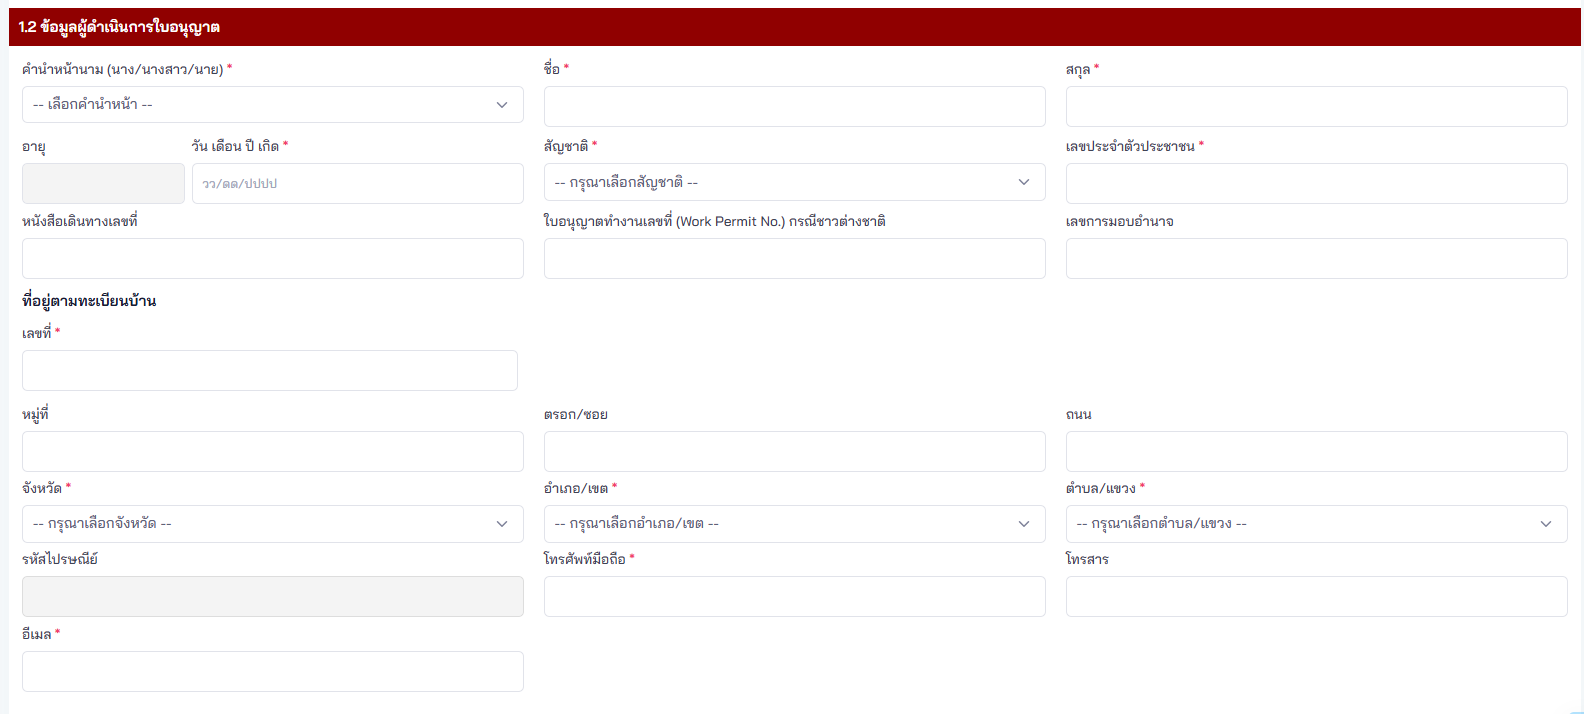
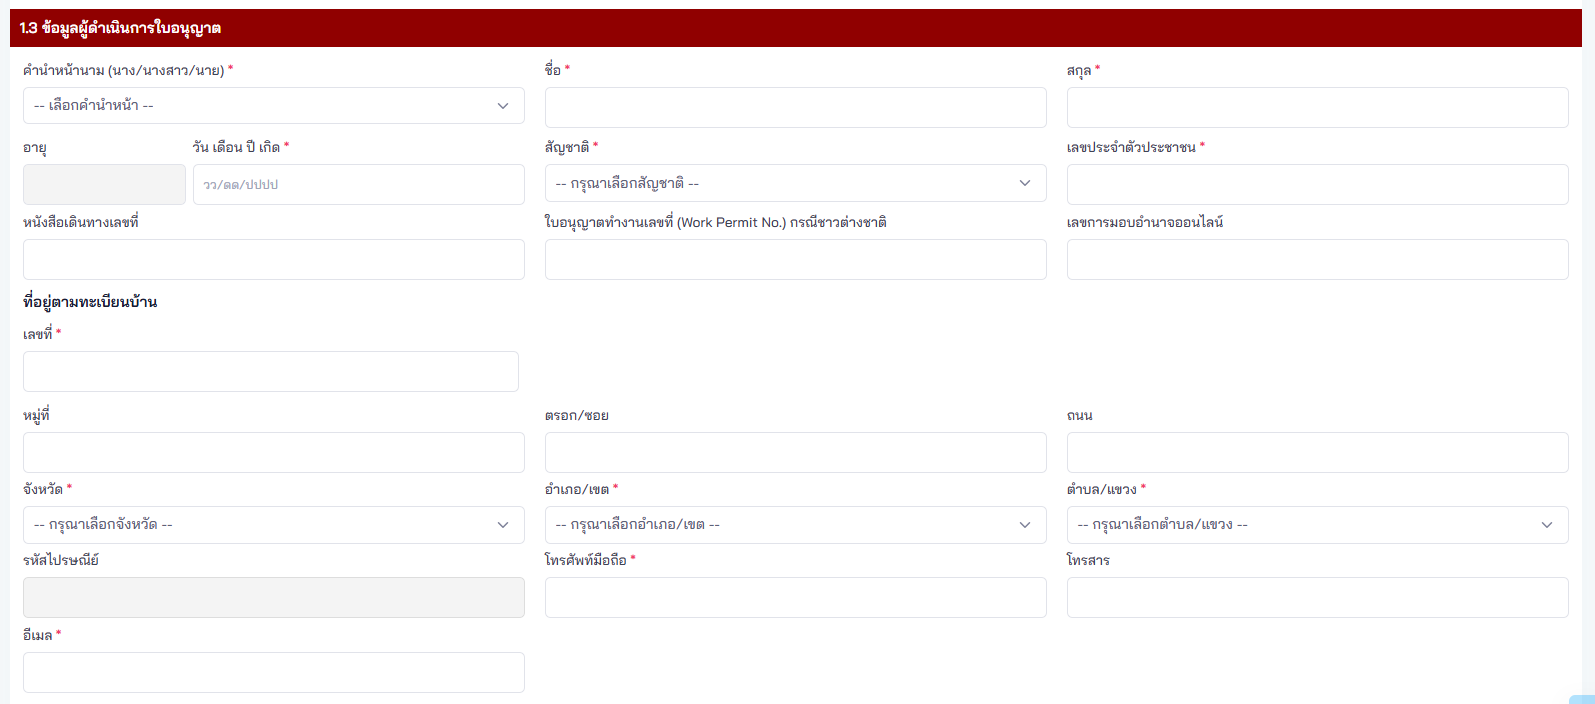
nc1 nc5

diff --git a/Narcotic1_Condition.md b/Narcotic1_Condition.md
@@ -76,12 +76,40 @@ li {
 <img src="Narcotic1_Condition_2.png" style="border: 1px solid black;" width="100%">
 
 ## 🔷 Field Condition (ยส.1-1)
+
+### การดำเนินการ + วัตถุประสงค์ในการขออนุญาต + ประเภทผู้ขออนุญาต
+
+<img src="Narcotic1_Field Condition_13_1.png" style="border: 1px solid black;" width="70%">
+<img src="Narcotic1_Field Condition_13.png" style="border: 1px solid black;" width="100%">
+
+| ลำดับ | Label | Table.Field | Condition | Remark |
+|:---:|---|---|---|---|
+| 1 | การดำเนินการ | `Requisition`.`OperationTypeId` | การดำเนินการ อ้างอิง `MasterOperationType`.`Id` |  |
+
+<img src="Narcotic1_Field Condition_14_1.png" style="border: 1px solid black;" width="70%">
+<img src="Narcotic1_Field Condition_14.png" style="border: 1px solid black;" width="100%">
+
+| ลำดับ | Label | Table.Field | Condition | Remark |
+|:---:|---|---|---|---|
+| 1 | วัตถุประสงค์ในการขออนุญาต | `Requisition`.`ObjectiveTypeId` |  |  |
+
+<img src="Narcotic1_Field Condition_15_1.png" style="border: 1px solid black;" width="70%">
+<img src="Narcotic1_Field Condition_15.png" style="border: 1px solid black;" width="100%">
+
+| ลำดับ | Label | Table.Field | Condition | Remark |
+|:---:|---|---|---|---|
+| x | - | `RequisitionObjectiveApplicantDetail`.`RequisitionId` |  |  |
+| 1 | เลขที่ใบอนุญาตจัดตั้งสถาบันอุดมศึกษาเอกชน | `RequisitionObjectiveApplicantDetail`.`ApplicantPrivateUniversityLicenseNumber` | กรณีเลือกวัตถุประสงค์ เป็น `สถาบันอุดมศึกษาเอกชน ตามกฎหมายว่าด้วยสถาบันอุดมศึกษาเอกชน` |  |
+| 2.1 | ระบุประเภทใบอนุญาต | `RequisitionObjectiveApplicantDetail`.`ApplicantLicenseTypeId` | กรณีเลือกวัตถุประสงค์ เป็น `ผู้รับอนุญาตตามประมวลกฎหมายยาเสพติด/ตามกฎหมายว่าด้วยยา` |  |
+| 2.2 | เลขที่ใบอนุญาต | `RequisitionObjectiveApplicantDetail`.`ApplicantLicenseNumber` | กรณีเลือกวัตถุประสงค์ เป็น `ผู้รับอนุญาตตามประมวลกฎหมายยาเสพติด/ตามกฎหมายว่าด้วยยา` |  |
+
 ### 1.1 ข้อมูลผู้ขออนุญาต (ยส.1-1)
 
 <img src="Narcotic1_Field Condition_2.png" style="border: 1px solid black;" width="100%">
 
 > 24 มี.ค. 2569
 > 1. เปิดทุก field เป็น enable แต่ยังให้ดึงข้อมูลจาก DOPA มา fill
+> (รหัสไปรษณีย์ ให้ disable แต่ให้ดึงตามตำบล/แขวง)
 > 2. ย้าย จังหวัด ไปต่อกับ ถนน
 > 3. ย้าย Email ไปต่อกับ โทรสาร  
 > 4. โทรศัพท์มือถือ ปรับให้เป็น free text
@@ -111,13 +139,29 @@ li {
 
 ### 1.2 ข้อมูลผู้ดำเนินการใบอนุญาต (ยส.1-1)
 
+<img src="Narcotic1_Field Condition_17.png" style="border: 1px solid black;" width="70%">
+<img src="Narcotic1_Field Condition_18.png" style="border: 1px solid black;" width="100%">
+
+<ul>
+  <li>1. ทำเป็น Radio เลือกได้ 1 ประเภทใบอนุญาต</li>
+  <li>2. ใช้ API GetLicense (api/License/Narcotic/Search) ค้นหาใบอนุญาตของตัวเอง</li>
+</ul>
+
+| ลำดับ | Label | Table.Field | Condition | Remark |
+|:---:|---|---|---|---|
+| 1 | ไอดี ของ ใบอนุญาต | `Requisition`.`LicenseRefId` | ใบอนุญาตที่อ้างอิง อ้างอิง `License`.`Id` | |
+| 2 | ใบอนุญาตเลขที่ | `Requisition`.`LicenseRefNo` | เลขที่ใบอนุญาตที่อ้างอิง | |
+| 3 | ประเภทใบอนุญาต | `Requisition`.`LicenseRefType` | ประเภทใบอนุญาตที่อ้างอิง อ้างอิง `MasterLicenseType`.`Id`  | |
+
+### 1.3 ข้อมูลผู้ดำเนินการใบอนุญาต (ยส.1-1)
+
 <img src="Narcotic1_Field Condition_3.png" style="border: 1px solid black;" width="100%">
 
 *** (ยส.1-1) ไม่เก็บ Work permit no. ***
 
 > 24 มี.ค. 2569
 > 1. ซ่อน Work permit no.
-> 2. `เลขการมอบอำนาจ` เปลี่ยนเป็น `เลขการมอบอำนาจออนไลน์`
+> 2. `เลขการมอบอำนาจ` เปลี่ยนเป็น `เลขการมอบอำนาจออนไลน์` (แก้แล้ว)
 > 3. เลขรหัสประจำบ้าน ไม่แสดง ให้แสดงต่อจาก เลขที่
 
 | ลำดับ | Label | Table.Field | Condition | Remark |
@@ -153,7 +197,7 @@ li {
 
 <img src="Narcotic1_Field Condition_4.png" style="border: 1px solid black;" width="100%">
 <img src="Narcotic1_Field Condition_4_1.png" style="border: 1px solid black;" width="100%">
-<img src="Narcotic1_Field Condition_12.png" style="border: 1px solid black;" width="80%">
+<img src="Narcotic1_Field Condition_12.png" style="border: 1px solid black;" width="75%">
 
 | ลำดับ | Label | Table.Field | Condition | Remark |
 |:---:|---|---|---|---|
@@ -173,17 +217,20 @@ li {
 | 12 | โทรสาร | `RequisitionParticipantAddress`.`Fax` | | |
 | 13 | อีเมล | `RequisitionParticipantAddress`.`Email` | | |
 
-### 2.3 ข้อมูลของ<u>ผู้รับมอบ</u>ผลิตยาเสพติดให้โทษในประเภท 1 (กรณีขออนุญาตจำหน่าย) (ยส.1-1)
+### 2.3 ข้อมูลของ<u>ผู้รับมอบ</u>ผลิตยาเสพติดให้โทษในประเภท 1 (เฉพาะกรณีขออนุญาตจำหน่าย) (ยส.1-1)
 
 *** แสดงเมื่อเลือก OperationType เป็น **จำหน่าย** ***
 
 <ul>
   <li>ค้นหาจาก
     <ul>
-      <li>เลขที่ใบอนุญาต ผลิต นำเข้า ส่งออก หรือมีไว้ในครอบครอง ยาเสพติดให้โทษในประเภท 1</li>
+      <li>เลขที่ใบอนุญาต ผลิต นำเข้า ส่งออก หรือมีไว้ในครอบครอง ยาเสพติดให้โทษในประเภท 1 
+      <!-- <br> -  -->
+      <br> - ใช้ API GetLicense (api/License/Narcotic/Search) <br> - ทำเป็น Dropdown แสดงรายการใบอนุญาต ยส.1 <br> - แสดงข้อมูล ชื่อย่อใบอนุญาต, เลขที่ใบอนุญาต [ตัวอย่าง นยส4 กท 1/2569] <br> - แสดงเฉพาะใบอนุญาตที่ยังไม่หมดอายุ</li>
       หรือ
       <li>เลขที่ใบอนุญาต **ระหว่างการขออนุญาต** ผลิต นำเข้า ส่งออก หรือมีไว้ในครอบครอง
-      ยาเสพติดให้โทษในประเภท 1 ในระบบ</li>
+      ยาเสพติดให้โทษในประเภท 1 ในระบบ <br> - ** ยังไม่มี API ต้องหาจาก Requisition ** <br> - เฉพาะการดำเนินการที่มีสถานะ .... </li>
+      <li>หลังจากเลือกใบอนุญาต/เลขที่ใบอนุญาต **ระหว่างการขออนุญาต** แล้ว <br> แสดงข้อมูลที่อยู่ของใบอนุญาตนั้น ๆ (จากตาราง LicenseAddress)</li>
     </ul>
   </li>
 </ul>
@@ -216,16 +263,21 @@ li {
 
 ### 2.4 ข้อมูลผู้ส่งออกหรือผู้นำเข้าในต่างประเทศ (กรณีขออนุญาตนำเข้าหรือส่งออก)
 
-<img src="Narcotic1_Field Condition_11.png" style="border: 1px solid black;" width="100%">
 <img src="Narcotic1_Field Condition_7.png" style="border: 1px solid black;" width="100%">
 
-*** แสดงเมื่อเลือก OperationType เป็น **นำเข้า** หรือ **ส่งออก** <br> **มีหลายรายการเหมือน 2.3 ผู้รับมอบ ทำหน้าจอเหมือนกัน** ***
+<img src="Narcotic1_Field Condition_16_2.png" style="border: 1px solid black;" width="100%">
+
+*** แสดงเมื่อเลือก OperationType เป็น **นำเข้า** หรือ **ส่งออก** ***
+<ul>
+  <li>API ดึงข้อมูล MasterForeignEntity (ยังไม่มี API)</li>
+</ul>
+
 
 | ลำดับ | Label | Table.Field | Condition | Remark |
 |:---:|---|---|---|---|
 | x | - | `RequisitionForeignEntity`.`RequisitionId` |  |  |
 | y | ForeignEntityId ผู้ส่งออกหรือผู้นำเข้าในต่างประเทศ | `RequisitionForeignEntity`.`ForeignEntityId` | เอามาจาก `MasterForeignEntity`.`Id` |  |
-| z | ForeignEntityType | `RequisitionForeignEntity`.`ForeignEntityType` | ประเภทผู้ผลิต/ผู้นำเข้า/ผู้ส่งออก (M=ผู้ผลิต, I=ผู้นำเข้า, E=ผู้ส่งออก) | ถ้าเป็นคำขอ**ส่งออก** ส่ง 'I' <br> ถ้าเป็นคำขอ**นำเข้า** ส่ง 'E' |
+| z | ForeignEntityType | `RequisitionForeignEntity`.`ForeignEntityType` | ประเภทผู้ผลิต/ผู้นำเข้า/ผู้ส่งออก (I=ผู้นำเข้า, E=ผู้ส่งออก) | ถ้าเป็นคำขอ**ส่งออก** ส่ง 'I' <br> ถ้าเป็นคำขอ**นำเข้า** ส่ง 'E' |
 | 1 | ชื่อผู้ส่งออกหรือผู้นำเข้าในต่างประเทศ | `RequisitionForeignEntity`.`ForeignEntityName` |  | เอามาจาก `MasterForeignEntity`.`Id` ที่เลือก แล้วหา `MasterForeignEntity`.`ForeignEntityName` |
 | 2 | ที่อยู่ของสถานที่ทำการ | `RequisitionForeignEntity`.`ForeignEntityAddress` |  | เอามาจาก `MasterForeignEntity`.`Id` ที่เลือก แล้วหา `MasterForeignEntity`.`FullAddress` |
 | 3.1 | (Id) ประเทศ | `RequisitionForeignEntity`.`CountryId` |  | เอามาจาก `MasterForeignEntity`.`Id` ที่เลือก แล้วหา `MasterForeignEntity`.`CountryId` |
